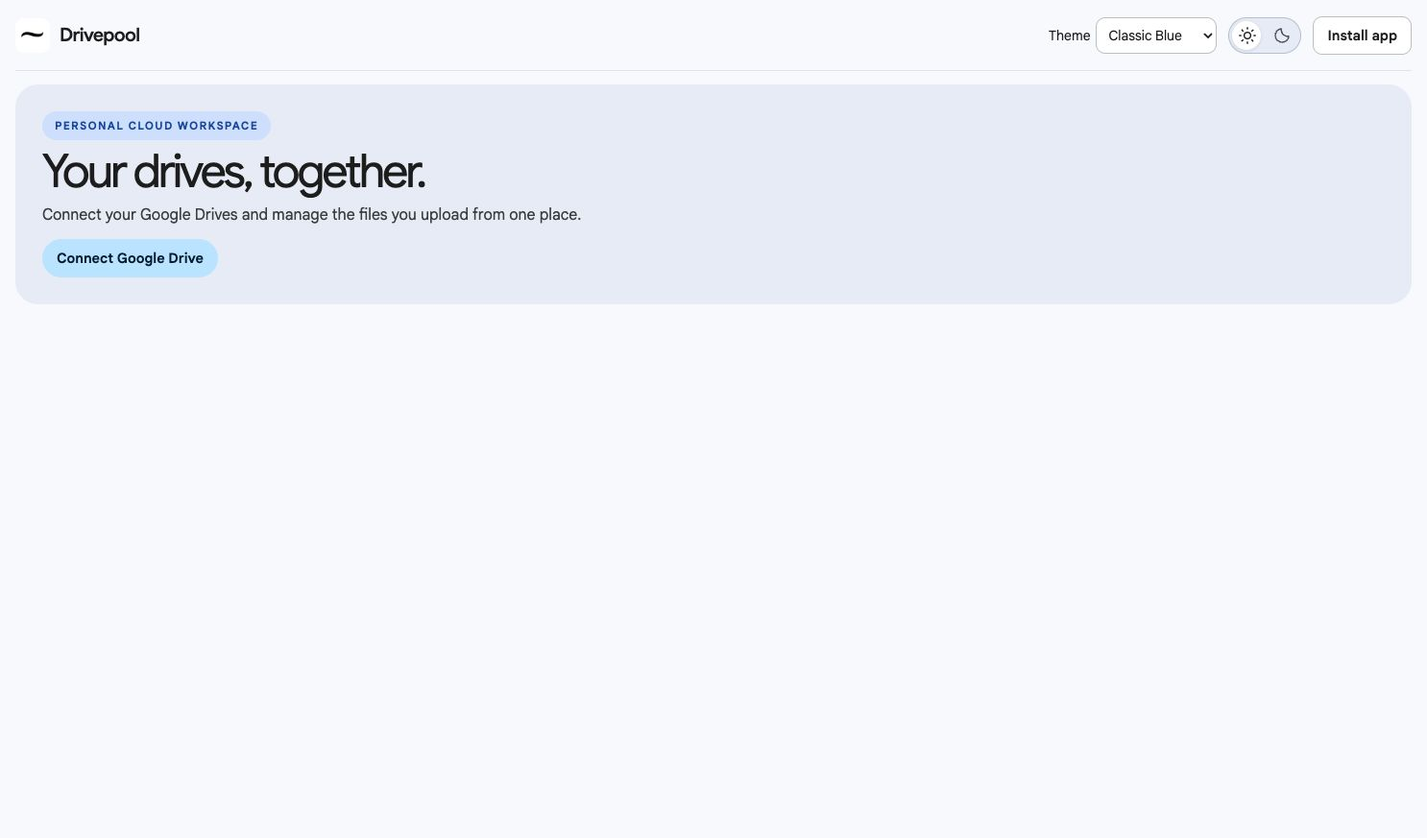
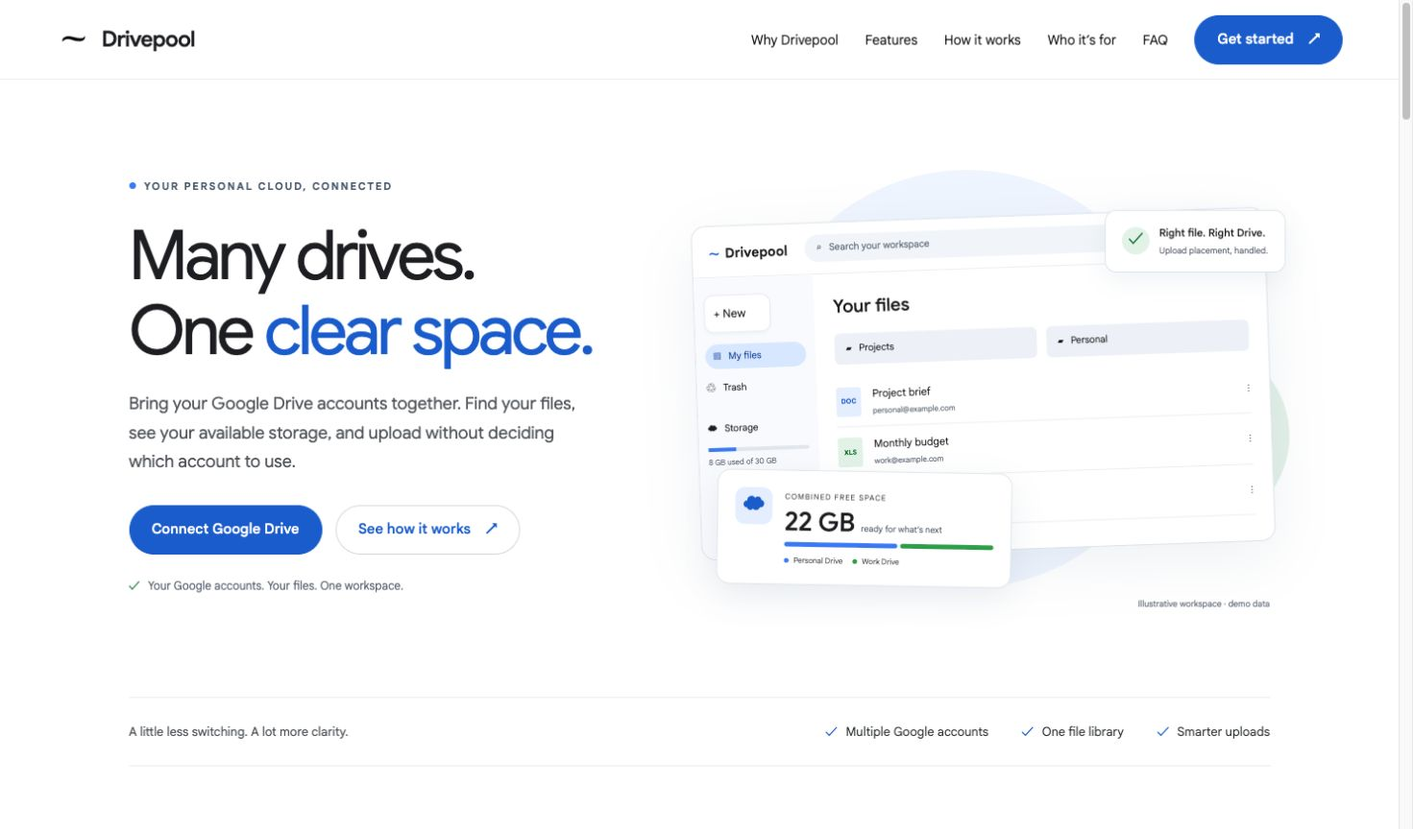
feat: redesign Drivepool landing with product story and getting-started guide

diff --git a/public/landing.css b/public/landing.css
@@ -1,0 +1,77 @@
+/* Marketing styles are isolated from the signed-in file workspace. */
+.landing-only { display: none; }
+body.landing-ready { background:#fff; color:#202124; }
+.landing-ready .shell.top { width:100%; padding:0 4%; margin:0; min-height:84px; border-bottom:1px solid #edf0f4; gap:28px; background:#fff; color:#202124; }
+.landing-ready .top .brand { font-size:23px; letter-spacing:-.8px; }
+.landing-ready .top .brand img { width:38px; height:38px; }
+.landing-ready #app-settings { display:none; }
+.landing-ready main.shell { width:100%; }
+.landing-ready .landing-only { display:flex; }
+.landing-ready .lp-nav { margin-left:auto; gap:28px; align-items:center; }
+.lp-nav a,.lp-footer a { color:inherit; text-decoration:none; font-size:14px; }
+.lp-nav a:hover,.lp-footer a:hover { color:#1967d2; }
+.lp-wrap { width:min(1200px,calc(100% - 80px)); margin-inline:auto; }
+.landing { --lp-blue:#1967d2; --lp-muted:#5f6368; color:#202124; background:#fff; font-size:16px; line-height:1.65; }
+.landing h1,.landing h2,.landing h3,.landing p { margin:0; }
+.landing h1,.landing h2 { font-weight:400; letter-spacing:-2.6px; line-height:1.1; text-wrap:balance; }
+.landing h2 { font-size:clamp(34px,3.8vw,49px); }
+.landing h3 { font-weight:500; letter-spacing:-.6px; line-height:1.3; font-size:23px; }
+.landing p { color:var(--lp-muted); }
+.lp-kicker { font-size:11px; letter-spacing:1.8px; font-weight:650; color:#526579; display:inline-flex; align-items:center; gap:9px; }
+.lp-dot { display:inline-block; width:7px; height:7px; border-radius:50%; background:#4285f4; }
+.lp-green { background:#34a853; }
+.landing .lp-button,.landing-ready .lp-header-cta { display:inline-flex; align-items:center; justify-content:center; gap:16px; border-radius:100px; padding:14px 23px; min-height:52px; text-decoration:none; font:500 15px/1.4 "Google Sans",Arial,sans-serif; letter-spacing:0; transition:background .15s,box-shadow .15s; }
+.landing .lp-button.primary,.landing-ready .lp-header-cta { background:#1967d2; color:white; border:1px solid #1967d2; }
+.landing .lp-button.primary:hover,.landing-ready .lp-header-cta:hover { background:#1558b6; box-shadow:0 3px 8px #1967d228; }
+.landing .lp-secondary { border:1px solid #dadce0; color:#1967d2; background:white; }
+.landing .lp-secondary:hover { background:#f5f9ff; }
+.landing .lp-button:focus-visible,.landing a:focus-visible,.landing summary:focus-visible,.lp-nav a:focus-visible { outline:3px solid #1967d2; outline-offset:5px; }
+.landing .lp-button:disabled,.landing-ready .lp-header-cta:disabled { opacity:.55; cursor:wait; }
+.lp-buttons { display:flex; gap:14px; flex-wrap:wrap; margin-top:30px; }
+.lp-hero { display:grid; grid-template-columns:.95fr 1.05fr; gap:50px; align-items:center; padding-block:95px 105px; min-height:650px; }
+.landing .lp-hero h1 { font-size:clamp(48px,5.2vw,72px); margin:22px 0; letter-spacing:-3.5px; }
+.lp-hero h1 span { color:#1967d2; }
+.lp-hero-copy>p { max-width:480px; font-size:18px; line-height:1.7; }
+.lp-hero-note { font-size:12px; color:#6b7280; margin-top:23px; }
+.lp-hero-note>span { color:#188038; margin-right:6px; }
+.lp-visual { position:relative; isolation:isolate; min-width:0; min-height:410px; display:flex; align-items:center; }
+.lp-orbit { z-index:-1; position:absolute; width:440px; height:440px; border-radius:50%; background:#f1f6fe; left:65px; top:-20px; }
+.lp-orbit-two { background:#e6f2eb; width:200px; height:200px; left:auto; right:-20px; top:160px; }
+.lp-mini-app { background:#fff; width:100%; border:1px solid #e0e5ed; border-radius:15px; box-shadow:0 18px 60px #173b6412; transform:rotate(-2deg); overflow:hidden; }
+.lp-mini-top { height:54px; display:flex; align-items:center; gap:18px; padding:0 17px; border-bottom:1px solid #eef0f3; font-size:12px; }
+.lp-mini-brand { white-space:nowrap; color:#1967d2; font-size:22px; }.lp-mini-brand b { color:#202124; font-size:14px; }
+.lp-mini-search { background:#f3f6fa; color:#78828e; border-radius:20px; padding:6px 12px; flex:1; font-size:10px; }
+.lp-avatar { width:24px; height:24px; background:#e6efe9; color:#167442; border-radius:50%; text-align:center; line-height:24px; }
+.lp-mini-body { display:grid; grid-template-columns:126px 1fr; min-height:260px; }
+.lp-mini-side { padding:18px 10px; display:flex; flex-direction:column; gap:12px; background:#fafbfd; font-size:10px; }
+.lp-mini-new { background:#fff; border:1px solid #e9edf2; border-radius:10px; padding:9px; width:70px; font-size:12px; box-shadow:0 2px 4px #20212409; }
+.lp-mini-selected { background:#dceaff; color:#174ea6; border-radius:20px; padding:5px 8px; }.lp-mini-cloud { margin-top:14px; }
+.lp-mini-meter { background:#e4e9ee; height:4px; border-radius:4px; }.lp-mini-meter i { display:block; background:#4285f4; width:27%; height:100%; }.lp-mini-side small { color:#717a87; font-size:8px; margin-top:-7px; }
+.lp-mini-files { padding:19px 20px 27px; font-size:14px; }.lp-mini-files>strong { font-weight:500; font-size:19px; }
+.lp-mini-folders { display:flex; gap:10px; margin:13px 0; }.lp-mini-folders span { background:#eff3f8; padding:8px 12px; flex:1; border-radius:6px; font-size:10px; }
+.lp-mini-row { border-bottom:1px solid #eef0f3; display:flex; align-items:center; gap:12px; padding:9px 0; font-size:11px; }.lp-mini-row>span:nth-child(2) { flex:1; }.lp-mini-row small { display:block; font-size:8px; color:#7c858f; }.lp-mini-row i { font-style:normal; font-size:7px; width:26px; height:31px; display:grid; place-items:center; border-radius:3px; font-weight:700; }
+.lp-file-blue { color:#1967d2; background:#e8f0fe; }.lp-file-green { color:#188038; background:#e6f4ea; }.lp-file-red { color:#c5221f; background:#fce8e6; }
+.lp-storage-float { position:absolute; bottom:-8px; left:22px; padding:18px; background:#fff; border:1px solid #e4e9ed; border-radius:14px; box-shadow:0 10px 35px #123c6814; display:flex; gap:13px; width:310px; transform:rotate(1deg); }
+.lp-storage-icon { width:39px; height:39px; border-radius:10px; background:#e8f0fe; color:#1967d2; font-size:23px; text-align:center; }.lp-storage-float>div { flex:1; }.lp-storage-float small { font-size:8px; letter-spacing:1px; color:#5f6368; }.lp-storage-float strong { display:block; font-size:27px; line-height:1.5; font-weight:500; }.lp-storage-float strong span { font-size:9px; color:#6b7280; font-weight:400; }.lp-storage-float p { font-size:8px; margin-top:8px; white-space:nowrap; }.lp-storage-float .lp-dot { width:5px; height:5px; margin-right:3px; }.lp-storage-float .lp-green { margin-left:8px; }
+.lp-combined-bar { display:flex; gap:3px; height:5px; }.lp-combined-bar i { width:55%; background:#4285f4; border-radius:5px; }.lp-combined-bar i+i { width:45%; background:#34a853; }
+.lp-upload-float { position:absolute; right:-16px; top:22px; display:flex; align-items:center; gap:10px; padding:14px 17px; background:#fff; border-radius:12px; border:1px solid #e5e9ed; box-shadow:0 8px 25px #123c6810; }.lp-upload-float>span { background:#e6f4ea; color:#188038; width:29px; height:29px; border-radius:50%; text-align:center; }.lp-upload-float b { display:block; font-size:11px; font-weight:500; }.lp-upload-float small { display:block; font-size:9px; color:#6b7280; }
+.lp-demo-label { position:absolute; right:0; bottom:-35px; color:#7d8792; font-size:9px; }
+.lp-proof { border-top:1px solid #e9edf2; border-bottom:1px solid #e9edf2; padding:25px 0; display:flex; justify-content:space-between; gap:20px; font-size:13px; }.lp-proof>div { display:flex; gap:35px; color:#3c4043; }.lp-proof>div span::before { content:'✓'; margin-right:9px; color:#1967d2; }
+.lp-section { padding-block:100px; scroll-margin-top:32px; }.lp-split { display:grid; grid-template-columns:1fr 1fr; gap:100px; align-items:center; }.lp-section-copy h2 { margin:17px 0 22px; }.lp-section-copy>p { font-size:17px; }.lp-checks { margin:23px 0; padding:0; list-style:none; }.landing .lp-checks li { display:block; padding:7px 0; border:0; font-size:14px; color:#4f5966; }.lp-checks li::before { content:'✓'; margin-right:12px; color:#188038; }.lp-text-link { color:#1967d2; text-decoration:none; font-weight:500; font-size:14px; }.lp-text-link span { margin-left:10px; }
+.lp-capacity-art { padding:42px; background:#f2f6fc; border-radius:28px; }.lp-capacity-art h3 { margin:12px 0 28px; font-size:29px; }.lp-drive-line { background:white; border:1px solid #e6ebf1; padding:15px; border-radius:12px; display:flex; align-items:center; gap:12px; margin-bottom:12px; }.lp-drive-icon { width:34px; height:34px; background:#e8f0fe; color:#1967d2; display:grid; place-items:center; border-radius:50%; font-size:13px; }.lp-green-icon { background:#e6f4ea; color:#188038; }.lp-drive-line b { font-size:12px; font-weight:500; }.lp-drive-line small { display:block; font-size:10px; color:#6b7280; }.lp-bar { height:5px; width:80px; border-radius:6px; background:#eef1f4; margin-left:auto; }.lp-bar i { display:block; height:100%; background:#4285f4; border-radius:6px; }.lp-drive-line:nth-of-type(2) .lp-bar i { background:#34a853; }
+.lp-capacity-total { border-top:1px solid #dce5f1; margin-top:26px; padding-top:22px; display:flex; align-items:center; justify-content:space-between; font-size:13px; }.lp-capacity-total strong { font-size:44px; font-weight:400; letter-spacing:-2px; }.lp-capacity-total strong small { font-size:14px; letter-spacing:0; }.lp-capacity-art>p { font-size:10px; margin-top:20px; }
+.lp-section-heading { text-align:center; max-width:760px; margin:0 auto 48px; }.lp-section-heading h2 { margin:17px 0; }.lp-section-heading p { font-size:17px; }.lp-feature-grid { display:grid; grid-template-columns:repeat(3,1fr); gap:46px; margin-bottom:50px; }.lp-feature-icon { display:grid; place-items:center; width:48px; height:48px; background:#e8f0fe; color:#1967d2; border-radius:14px; font-size:28px; margin-bottom:22px; }.lp-mint { background:#e6f4ea; color:#188038; }.lp-peach { background:#fef1e6; color:#b06000; }.lp-feature-grid h3 { font-size:21px; margin-bottom:12px; }.lp-feature-grid p { font-size:14px; }
+.lp-product-shot { background:#f1f5fb; padding:36px 36px 16px; margin:0; border-radius:24px; }.lp-product-shot img { display:block; width:100%; height:auto; border-radius:12px; border:1px solid #e0e6ee; box-shadow:0 12px 40px #223a5e0c; }.lp-product-shot figcaption { font-size:11px; color:#6b7280; text-align:center; margin-top:18px; }
+.lp-steps-band { background:#f8fafd; }.lp-steps { display:grid; grid-template-columns:repeat(3,1fr); gap:52px; list-style:none; padding:0; margin:0 0 42px; }.landing .lp-steps li { display:block; border:0; padding:0; }.lp-step-number { color:#1967d2; font-size:14px; display:block; padding-bottom:18px; margin-bottom:22px; border-bottom:1px solid #cfdcf0; }.lp-steps h3 { font-size:22px; margin-bottom:13px; }.lp-steps p { font-size:14px; }.lp-steps b { font-weight:500; color:#3c4043; }.lp-center { text-align:center; }
+.lp-audience-heading { display:flex; justify-content:space-between; gap:70px; align-items:end; margin-bottom:45px; }.lp-audience-heading h2 { margin-top:16px; }.lp-audience-heading>p { max-width:345px; font-size:16px; }.lp-audience-grid { display:grid; grid-template-columns:repeat(3,1fr); gap:24px; }.lp-audience-grid article { padding:32px 28px; border:1px solid #e2e8f0; border-radius:18px; background:#fafcfe; }.lp-audience-grid article:nth-child(2) { background:#f5faf7; border-color:#e1ebe5; }.lp-audience-grid article:nth-child(3) { background:#fdf9f4; border-color:#efe7dd; }.lp-audience-grid article>span { font-size:10px; letter-spacing:1px; color:#6b7280; }.lp-audience-grid h3 { font-size:23px; margin:20px 0 12px; }.lp-audience-grid p { font-size:14px; }
+.lp-trust { display:grid; grid-template-columns:1fr 2fr; gap:70px; align-items:center; border-top:1px solid #e9edf2; border-bottom:1px solid #e9edf2; }.lp-trust-symbol { width:180px; height:195px; display:grid; place-items:center; margin:auto; color:#1967d2; background:#e8f0fe; font-size:65px; clip-path:polygon(50% 0,95% 16%,95% 57%,85% 77%,50% 100%,15% 77%,5% 57%,5% 16%); }.lp-trust h2 { margin:17px 0 22px; }.lp-trust p { max-width:650px; font-size:16px; }.lp-trust .lp-small-print { font-size:12px; margin-top:17px; }.lp-trust code { font-size:.85em; }
+.lp-faq { display:grid; grid-template-columns:1fr 1.4fr; gap:80px; }.lp-faq h2 { margin-top:17px; }.lp-faq details { border-bottom:1px solid #e1e6ed; }.lp-faq summary { cursor:pointer; list-style:none; padding:22px 30px 22px 0; position:relative; font-size:17px; font-weight:500; line-height:1.45; }.lp-faq summary::-webkit-details-marker { display:none; }.lp-faq summary::after { content:'+'; position:absolute; right:0; top:19px; font-size:24px; font-weight:400; color:#1967d2; }.lp-faq details[open] summary::after { content:'−'; }.lp-faq details p { font-size:14px; padding:0 20px 23px 0; }
+.lp-final { text-align:center; background:#f0f5fe; border-radius:28px; padding:65px 25px; }.lp-final>img { border-radius:14px; margin-bottom:22px; }.lp-final h2 { font-size:clamp(35px,4vw,50px); }.lp-final p { margin:18px 0 25px; }.lp-final>small { display:block; font-size:11px; color:#6b7280; margin-top:17px; }
+.lp-footer { display:flex; align-items:center; justify-content:space-between; gap:24px; padding-block:45px; }.lp-footer .lp-footer-brand { font-weight:600; font-size:21px; letter-spacing:-.6px; }.lp-footer>span { font-size:12px; color:#6b7280; margin-right:auto; }.lp-footer>div { display:flex; gap:26px; }.lp-footer>div a { font-size:12px; }
+.landing-ready #message:not([hidden]) { position:fixed; bottom:20px; left:50%; transform:translateX(-50%); z-index:20; width:min(600px,calc(100% - 32px)); background:white; color:#202124; box-shadow:0 5px 30px #20212422; padding:18px; border:1px solid #dadce0; border-radius:12px; }
+@media(max-width:1100px) { .landing-ready .lp-nav { gap:18px; }.lp-wrap { width:calc(100% - 64px); }.lp-hero { gap:30px; padding-block:75px 95px; }.lp-mini-search { display:none; }.lp-avatar { margin-left:auto; }.lp-orbit { left:0; width:350px; height:350px; }.lp-split { gap:50px; }.lp-capacity-art { padding:28px; }.lp-drive-line { gap:8px; }.lp-bar { width:50px; }.lp-proof>div { gap:18px; }.lp-upload-float { right:-5px; }.lp-feature-grid { gap:30px; } }
+@media(max-width:850px) { .landing-ready .lp-nav a:first-child,.landing-ready .lp-nav a:nth-child(4) { display:none; }.lp-hero { grid-template-columns:1fr; gap:40px; text-align:center; padding-top:65px; }.lp-hero-copy>p { margin:auto; max-width:550px; }.lp-buttons { justify-content:center; }.lp-visual { width:min(570px,95%); margin:auto; text-align:left; }.lp-hero .lp-orbit { width:430px; height:430px; left:70px; }.lp-mini-search { display:block; }.lp-proof { display:block; text-align:center; }.lp-proof>div { justify-content:center; margin-top:12px; flex-wrap:wrap; }.lp-split { gap:35px; }.lp-section { padding-block:75px; }.lp-audience-heading { gap:30px; }.lp-audience-heading>p { max-width:260px; }.lp-trust { gap:35px; }.lp-faq { gap:40px; }.lp-footer>span { display:none; } }
+@media(max-width:600px) { .lp-wrap { width:calc(100% - 40px); }.landing-ready .shell.top { min-height:74px; padding:12px 20px; flex-wrap:wrap; gap:16px; }.landing-ready .top .brand { font-size:21px; }.landing-ready .lp-header-cta { margin-left:auto; min-height:42px; padding:10px 17px; font-size:13px; }.landing-ready .lp-nav { order:3; width:100%; justify-content:center; gap:30px; border-top:1px solid #eef0f3; padding-top:10px; }.lp-nav a { font-size:12px; }.landing .lp-hero h1 { font-size:51px; letter-spacing:-2.7px; }.lp-hero { padding-block:50px 65px; gap:30px; }.lp-hero-copy>p { font-size:16px; }.lp-kicker { font-size:9px; letter-spacing:1.4px; }.landing .lp-button { padding:13px 20px; font-size:13px; min-height:47px; }.lp-buttons { gap:10px; }.lp-hero-note { font-size:10px; }.lp-visual { min-height:330px; width:100%; }.lp-hero .lp-orbit { width:285px; height:285px; left:20px; top:10px; }.lp-orbit-two { width:130px; height:130px; right:0; top:160px; }.lp-mini-body { grid-template-columns:90px 1fr; min-height:230px; }.lp-mini-top { padding:0 12px; gap:9px; height:44px; }.lp-mini-brand b { font-size:12px; }.lp-mini-search { font-size:7px; padding:5px 7px; }.lp-mini-side { font-size:8px; padding:14px 7px; gap:10px; }.lp-mini-side small { font-size:6px; }.lp-mini-new { width:58px; font-size:10px; }.lp-mini-files { padding:15px 11px 25px; }.lp-mini-files>strong { font-size:16px; }.lp-mini-folders { gap:6px; }.lp-mini-folders span { font-size:7px; padding:7px; }.lp-mini-row { font-size:9px; gap:7px; padding:8px 0; }.lp-mini-row small { font-size:6px; }.lp-mini-row i { width:21px; height:25px; font-size:6px; }.lp-avatar { width:20px; height:20px; line-height:20px; font-size:10px; }.lp-upload-float { top:1px; right:-3px; padding:9px; gap:7px; }.lp-upload-float b { font-size:9px; }.lp-upload-float small { font-size:7px; }.lp-upload-float>span { width:23px; height:23px; font-size:13px; }.lp-storage-float { width:250px; padding:13px; left:10px; bottom:-8px; }.lp-storage-float strong { font-size:23px; }.lp-storage-float strong span { font-size:7px; }.lp-storage-float small { font-size:7px; }.lp-storage-float p { font-size:6px; }.lp-demo-label { bottom:-30px; font-size:7px; }.lp-proof { font-size:12px; }.lp-proof>div { gap:8px 18px; font-size:10px; }.lp-section { padding-block:58px; }.landing h2 { font-size:35px; letter-spacing:-1.7px; }.lp-split,.lp-feature-grid,.lp-steps,.lp-audience-grid,.lp-trust,.lp-faq { grid-template-columns:1fr; }.lp-split { gap:35px; }.lp-capacity-art { order:2; padding:27px; }.lp-section-copy>p { font-size:16px; }.lp-section-heading { margin-bottom:32px; }.lp-section-heading p { font-size:15px; }.lp-feature-grid { gap:30px; margin-bottom:35px; }.lp-feature-grid article { display:grid; grid-template-columns:44px 1fr; column-gap:18px; }.lp-feature-icon { width:44px; height:44px; grid-row:1 / 3; margin:0; }.lp-feature-grid h3 { font-size:20px; margin-bottom:7px; }.lp-product-shot { padding:12px 12px 10px; border-radius:16px; }.lp-product-shot img { border-radius:6px; }.lp-product-shot figcaption { font-size:8px; margin-top:10px; }.lp-steps { gap:28px; }.lp-step-number { padding-bottom:12px; margin-bottom:15px; }.lp-audience-heading { display:block; }.lp-audience-heading>p { max-width:none; margin-top:20px; }.lp-audience-grid { gap:15px; }.lp-audience-grid article { padding:25px; }.lp-audience-grid h3 { margin:12px 0 10px; }.lp-trust { gap:28px; }.lp-trust-symbol { width:95px; height:105px; font-size:35px; margin:0; }.lp-trust p { font-size:14px; }.lp-faq { gap:15px; }.lp-faq h2 br { display:none; }.lp-faq summary { font-size:16px; }.lp-final { padding:45px 20px; border-radius:22px; }.lp-final h2 { font-size:34px; }.lp-final p { font-size:15px; }.lp-footer { flex-wrap:wrap; padding-block:32px; }.lp-footer>div { gap:23px; }.lp-footer .lp-footer-brand { width:100%; } }
+@media(prefers-reduced-motion:reduce) { .landing *, .landing-ready .lp-header-cta { transition:none!important; scroll-behavior:auto!important; } }
+
+.lp-bar .lp-bar-personal { width:80%; }.lp-bar .lp-bar-work { width:67%; }

diff --git a/public/index.html b/public/index.html
@@ -3,6 +3,7 @@
 <head>
   <meta charset="utf-8">
   <meta name="viewport" content="width=device-width, initial-scale=1">
+  <meta name="description" content="Bring multiple Google Drive accounts into one workspace. See combined available storage, upload automatically, and organize your Drivepool files in one place.">
   <meta name="theme-color" content="#f8fafd">
   <title>Drivepool — Your drives, together</title>
   <link rel="manifest" href="/manifest.webmanifest">
@@ -10,7 +11,8 @@
   <link rel="icon" type="image/png" href="/favicon.png?v=4">
   <link rel="preload" href="/fonts/google-sans-v1.woff2" as="font" type="font/woff2" crossorigin>
   <link rel="stylesheet" href="/style.css?v=35">
-  <script src="/app.js?v=35" type="module"></script>
+  <link rel="stylesheet" href="/landing.css?v=1">
+  <script src="/app.js?v=36" type="module"></script>
 </head>
 <body>
   <header class="shell top">
@@ -20,6 +22,8 @@
       <svg viewBox="0 0 24 24" width="20" height="20" fill="none" stroke="currentColor" stroke-width="2" aria-hidden="true"><circle cx="10.5" cy="10.5" r="6"/><path d="m15 15 5 5"/></svg>
       <input type="search" id="search" aria-label="Search files and folders" placeholder="Search files and folders">
     </div>
+    <nav class="lp-nav landing-only" aria-label="Main navigation"><a href="#why-drivepool">Why Drivepool</a><a href="#features">Features</a><a href="#how-it-works">How it works</a><a href="#for-you">Who it’s for</a><a href="#faq">FAQ</a></nav>
+    <button class="lp-button primary lp-header-cta landing-only" type="button" data-landing-connect>Get started <span aria-hidden="true">↗</span></button>
     <div class="actions" id="app-settings">
       <label class="theme-control">Theme
         <select id="theme-select">
@@ -45,13 +49,42 @@
     <div id="app-loading" class="app-loading" role="status">
       <span class="loading-indicator" aria-hidden="true"></span> Opening your workspace…
     </div>
-    <div class="overview" id="welcome" hidden>
-    <section class="hero">
-      <span class="eyebrow">PERSONAL CLOUD WORKSPACE</span>
-      <h1>Your drives, together.</h1>
-      <p>Connect your Google Drives and manage the files you upload from one place.</p>
-      <button class="primary" id="connect" type="button" disabled>Connect Google Drive</button>
-    </section>
+    <div class="overview landing" id="welcome" hidden>
+      <section class="lp-hero lp-wrap" aria-labelledby="landing-title">
+        <div class="lp-hero-copy">
+          <span class="lp-kicker"><span class="lp-dot"></span> YOUR PERSONAL CLOUD, CONNECTED</span>
+          <h1 id="landing-title">Many drives.<br>One <span>clear space.</span></h1>
+          <p>Bring your Google Drive accounts together. Find your files, see your available storage, and upload without deciding which account to use.</p>
+          <div class="lp-buttons"><button class="primary lp-button" id="connect" type="button" disabled>Connect Google Drive</button><a class="lp-button lp-secondary" href="#how-it-works">See how it works <span aria-hidden="true">↗</span></a></div>
+          <div class="lp-hero-note"><span aria-hidden="true">✓</span> Your Google accounts. Your files. One workspace.</div>
+        </div>
+        <div class="lp-visual" role="img" aria-label="Illustrative Drivepool workspace combining two demo Drives, with 22 GB free and project files in one view">
+          <div class="lp-orbit lp-orbit-one"></div><div class="lp-orbit lp-orbit-two"></div>
+          <div class="lp-mini-app">
+            <div class="lp-mini-top"><span class="lp-mini-brand">∼ <b>Drivepool</b></span><span class="lp-mini-search">⌕ &nbsp; Search your workspace</span><span class="lp-avatar">J</span></div>
+            <div class="lp-mini-body"><div class="lp-mini-side"><span class="lp-mini-new">+ New</span><span class="lp-mini-selected">▤ &nbsp; My files</span><span>♲ &nbsp; Trash</span><span class="lp-mini-cloud">☁ &nbsp; Storage</span><div class="lp-mini-meter"><i></i></div><small>8 GB used of 30 GB</small></div>
+            <div class="lp-mini-files"><strong>Your files</strong><div class="lp-mini-folders"><span>▰ &nbsp; Projects</span><span>▰ &nbsp; Personal</span></div><div class="lp-mini-row"><i class="lp-file-blue">DOC</i><span>Project brief<small>personal@example.com</small></span><span>⋮</span></div><div class="lp-mini-row"><i class="lp-file-green">XLS</i><span>Monthly budget<small>work@example.com</small></span><span>⋮</span></div><div class="lp-mini-row"><i class="lp-file-red">PDF</i><span>Brand guidelines<small>personal@example.com</small></span><span>⋮</span></div></div></div>
+          </div>
+          <div class="lp-storage-float"><span class="lp-storage-icon">☁</span><div><small>COMBINED FREE SPACE</small><strong>22 GB <span>ready for what’s next</span></strong><div class="lp-combined-bar"><i></i><i></i></div><p><span class="lp-dot"></span> Personal Drive <span class="lp-dot lp-green"></span> Work Drive</p></div></div>
+          <div class="lp-upload-float"><span>✓</span><div><b>Right file. Right Drive.</b><small>Upload placement, handled.</small></div></div>
+          <span class="lp-demo-label">Illustrative workspace · demo data</span>
+        </div>
+      </section>
+      <div class="lp-proof lp-wrap"><p>A little less switching. A lot more clarity.</p><div><span>Multiple Google accounts</span><span>One file library</span><span>Smarter uploads</span></div></div>
+      <section class="lp-section lp-wrap lp-split" id="why-drivepool" aria-labelledby="why-title">
+        <div class="lp-capacity-art"><span class="lp-kicker">MAKE ROOM FOR MORE</span><h3>Your space adds up.</h3><div class="lp-drive-line"><span class="lp-drive-icon">P</span><div><b>Personal Drive</b><small>12 GB available</small></div><span class="lp-bar"><i class="lp-bar-personal"></i></span></div><div class="lp-drive-line"><span class="lp-drive-icon lp-green-icon">W</span><div><b>Work Drive</b><small>10 GB available</small></div><span class="lp-bar"><i class="lp-bar-work"></i></span></div><div class="lp-capacity-total"><span>One combined view</span><strong>22 <small>GB free</small></strong></div><p>Example storage across two demo accounts.</p></div>
+        <div class="lp-section-copy"><span class="lp-kicker">WHY DRIVEPOOL</span><h2 id="why-title">Use the space you<br>already have.</h2><p>One Drive is nearly full. Another has room to spare. Drivepool brings that space into one view, so you can focus on your next upload.</p><ul class="lp-checks"><li>See available space across connected accounts.</li><li>Let Drivepool choose where each upload goes.</li><li>Manage your Drivepool files without switching accounts.</li></ul><a class="lp-text-link" href="#features">Explore what you can do <span aria-hidden="true">→</span></a></div>
+      </section>
+      <section class="lp-section lp-wrap" id="features" aria-labelledby="features-title"><div class="lp-section-heading"><span class="lp-kicker">LESS FRICTION. MORE FLOW.</span><h2 id="features-title">Everything in its place.<br>Even across accounts.</h2><p>A familiar file workspace, with the bigger picture built in.</p></div>
+        <div class="lp-feature-grid"><article><span class="lp-feature-icon">⌕</span><h3>Find it in one place</h3><p>Search file and folder names across your Drivepool library. Switch between a visual grid and a detailed list.</p></article><article><span class="lp-feature-icon lp-mint">↥</span><h3>Let uploads find room</h3><p>Upload files or whole folders. Drivepool picks available storage, and large files can span connected Drives.</p></article><article><span class="lp-feature-icon lp-peach">▤</span><h3>Keep your files moving</h3><p>Organize folders, preview supported files, download what you need, and move unwanted files to the bin.</p></article></div>
+        <figure class="lp-product-shot"><img src="/landing-workspace.jpg" alt="Drivepool grid view with folders, document cards and storage details across two demo accounts" width="1486" height="864" loading="lazy"><figcaption>The Drivepool workspace · shown with sample files and demo accounts</figcaption></figure>
+      </section>
+      <section class="lp-steps-band" id="how-it-works" aria-labelledby="steps-title"><div class="lp-wrap lp-section"><div class="lp-section-heading"><span class="lp-kicker">FROM SCATTERED TO SORTED</span><h2 id="steps-title">Your workspace, in three steps.</h2><p>Start with your Google account. Bring the rest together as you go.</p></div><ol class="lp-steps"><li><span class="lp-step-number">01</span><h3>Connect your first Drive</h3><p>Select <b>Connect Google Drive</b>, sign in with Google, and approve the requested access. This is your primary sign-in account.</p></li><li><span class="lp-step-number">02</span><h3>Bring your other Drives</h3><p>Choose <b>Connect another Google Drive</b> in the workspace. Your available storage appears together in the sidebar.</p></li><li><span class="lp-step-number">03</span><h3>Upload. Find. Get on with it.</h3><p>Use <b>+ New</b> or drag files into the workspace. Organize them in folders, search by name, and download when you need them.</p></li></ol><div class="lp-center"><button class="lp-button primary" type="button" data-landing-connect>Get started with Google <span aria-hidden="true">→</span></button></div></div></section>
+      <section class="lp-section lp-wrap" id="for-you" aria-labelledby="audience-title"><div class="lp-audience-heading"><div><span class="lp-kicker">BUILT FOR YOUR EVERYDAY</span><h2 id="audience-title">A clearer space for<br>all the things you do.</h2></div><p>For people with more than one personal Google account—and better things to do than juggle them.</p></div><div class="lp-audience-grid"><article><span>01 / STUDENTS</span><h3>Notes to next semester.</h3><p>Keep uploaded assignments, reading material and project files organized in one library.</p></article><article><span>02 / FREELANCERS & CREATORS</span><h3>More projects. Less switching.</h3><p>Find your uploaded briefs, creative assets and deliverables without remembering which account holds them.</p></article><article><span>03 / EVERYDAY ORGANIZERS</span><h3>Make room for everyday life.</h3><p>Bring documents and personal projects together, and make better use of the storage in your accounts.</p></article></div></section>
+      <section class="lp-section lp-wrap lp-trust" aria-labelledby="trust-title"><span class="lp-trust-symbol" aria-hidden="true">✓</span><div><span class="lp-kicker">YOUR DRIVES STAY YOURS</span><h2 id="trust-title">Connected through Google.<br>Stored in your Drives.</h2><p>You sign in through Google OAuth. Drivepool uses the <code>drive.file</code> permission for files you use with the app. Your uploaded files are stored in your connected Google Drives.</p><p class="lp-small-print">Drivepool is an independent app, not a Google product. It does not add storage to your Google accounts.</p></div></section>
+      <section class="lp-section lp-wrap lp-faq" id="faq" aria-labelledby="faq-title"><div><span class="lp-kicker">A FEW GOOD QUESTIONS</span><h2 id="faq-title">Before you <br>bring it together.</h2></div><div class="lp-faq-list"><details><summary>What exactly does Drivepool do?</summary><p>Drivepool brings multiple personal Google Drive accounts into one file workspace. You can see combined available storage and manage files uploaded through Drivepool, while the files remain in your Google Drives.</p></details><details><summary>Will all my existing Google Drive files appear?</summary><p>The workspace lists files uploaded through Drivepool. It is not a full mirror of every existing file in your Google Drive accounts.</p></details><details><summary>Does it give me extra storage?</summary><p>It combines the available space you already have in your connected accounts. Each account keeps its own Google storage quota; Drivepool does not create extra storage or change your Google plan.</p></details><details><summary>What happens when one Drive does not have enough space?</summary><p>Drivepool chooses available connected storage for an upload. Large files can be split across Drives and reassembled when downloaded through Drivepool. Keep the accounts containing those parts connected to retrieve the complete file.</p></details><details><summary>Which account should I use to sign in again?</summary><p>Use the first Google account you connected. That primary account opens your workspace. Additional connected accounts contribute storage but do not sign you into the same workspace.</p></details><details><summary>Can I use Drivepool on my phone?</summary><p>Yes. Open the website in your mobile browser. On a supported browser, choose Install app. On iPhone, use Safari’s Share menu and Add to Home Screen. An internet connection is required for Drive access.</p></details></div></section>
+      <section class="lp-final lp-wrap"><img src="/icon-192.png?v=4" width="56" height="56" alt=""><h2>Your drives, together.<br>Your day, a little simpler.</h2><p>Give your files one place to come together.</p><button class="lp-button primary" type="button" data-landing-connect>Connect Google Drive <span aria-hidden="true">→</span></button><small>Start with the Google account you want to use for sign-in.</small></section>
+      <footer class="lp-footer lp-wrap"><a class="lp-footer-brand" href="/">∼ &nbsp; Drivepool</a><span>One workspace. More room to think.</span><div><a href="#how-it-works">How it works</a><a href="#faq">FAQ</a><a href="https://github.com/Luckykumawat/Drivepool" target="_blank" rel="noopener noreferrer">GitHub ↗</a></div></footer>
     </div>
     <p id="message" class="notice" role="status" hidden></p>
       <section id="library" hidden>

diff --git a/public/app.js b/public/app.js
@@ -1337,8 +1337,14 @@ try {
   const { configured, signedIn } = await read('/api/session');
   const connect = byId('connect');
   connect.disabled = !configured;
+  const landingButtons = document.querySelectorAll('[data-landing-connect]');
+  for (const button of landingButtons) {
+    button.disabled = !configured;
+    button.onclick = () => connect.click();
+  }
   connect.onclick = async () => {
     connect.disabled = true;
+    for (const button of landingButtons) button.disabled = true;
     message('Opening Google sign-in…');
     try {
       const { authorizationUrl } = await read('/oauth/start', { method: 'POST' });
@@ -1346,6 +1352,7 @@ try {
     } catch (error) {
       message(error.message);
       connect.disabled = false;
+      for (const button of landingButtons) button.disabled = false;
     }
   };
   connect.textContent = signedIn ? 'Connect another Google Drive' : 'Connect Google Drive';
@@ -1378,6 +1385,7 @@ try {
   }
   byId('library').hidden = !signedIn;
   document.body.classList.toggle('signed-in', signedIn);
+  document.body.classList.toggle('landing-ready', !signedIn);
   if (signedIn) await refresh();
 } catch (error) {
   message(error.message);
